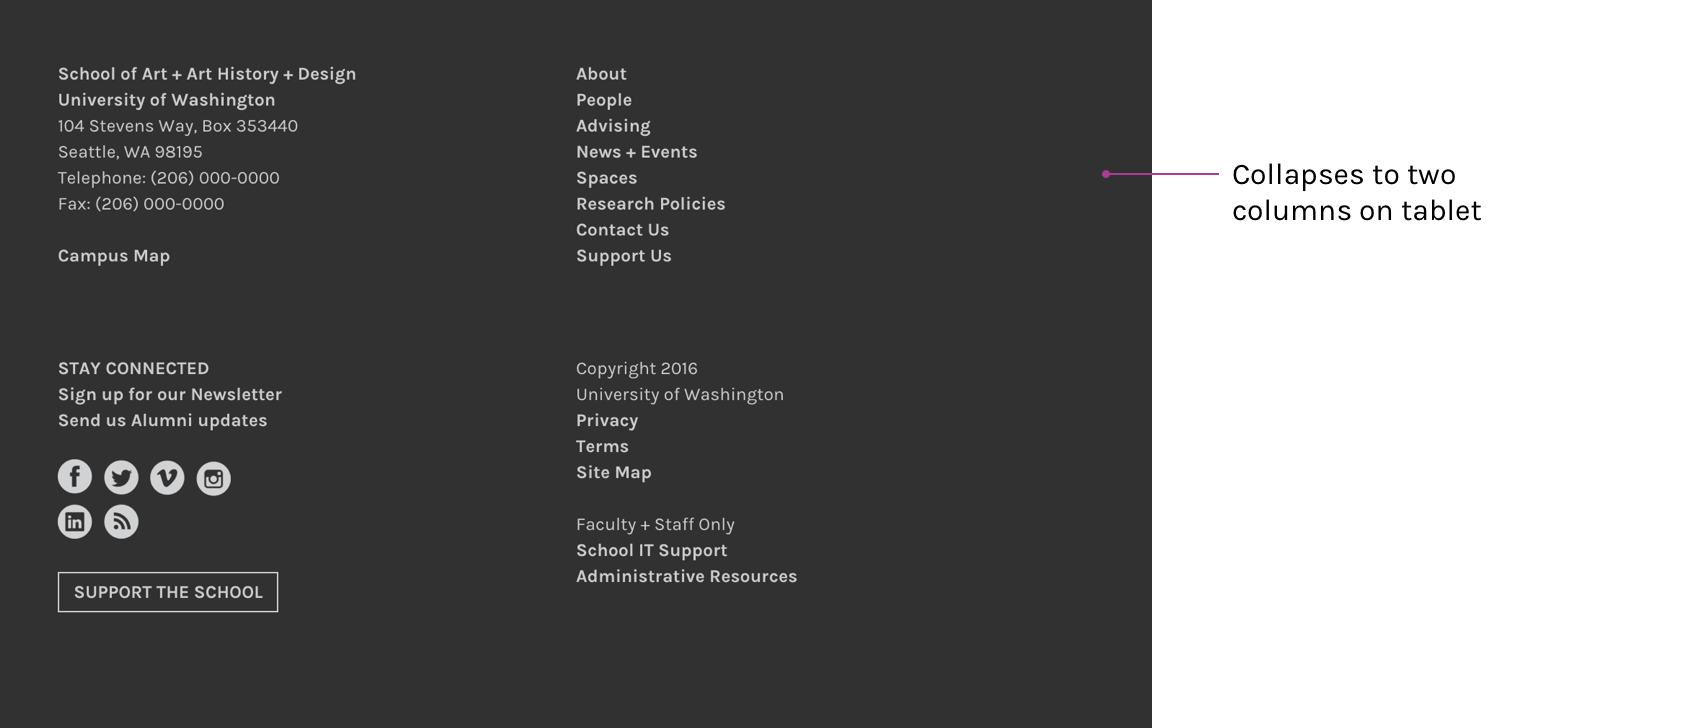
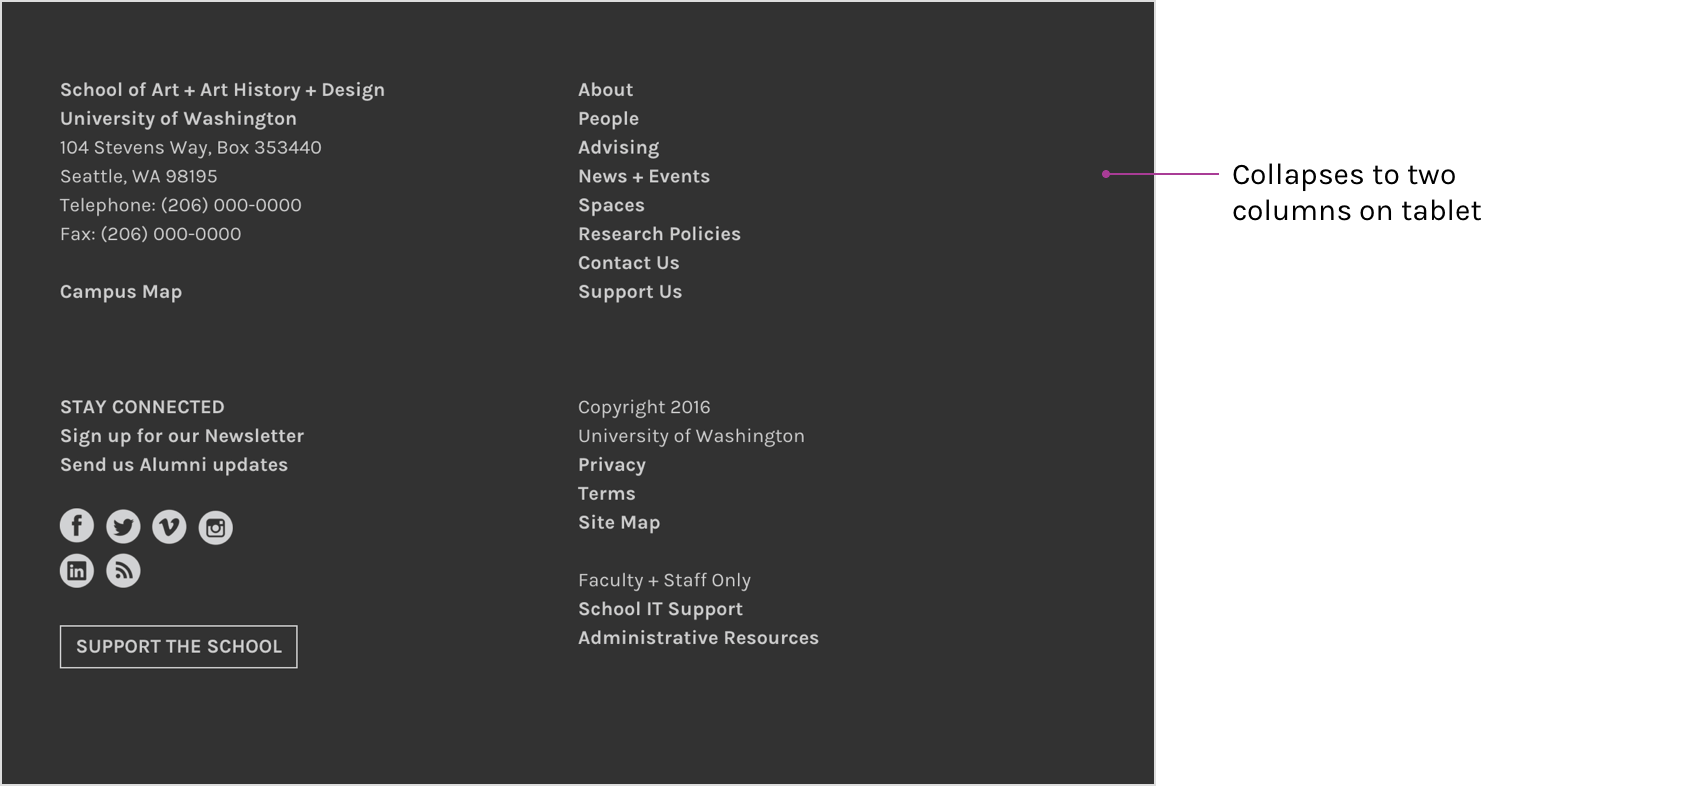
Updated as per 1/29 meeting

diff --git a/index.html b/index.html
@@ -51,7 +51,7 @@
 		<article id='overview'>
 			<h1 id='overview'>Overview</h1>
 			<p>This is the style guide for the forthcoming School of Art + Art History + Design website. It provides tools, assets and guidance to streamline the workflow between designers and developers, and maintain a consistency in style across the entire site.</p>
-			<p>The style guide was last updated on January 26, 2016. For more information, contact Rishi Agarwal (<a href='mailto:rishialexander@gmail.com'>rishialexander@gmail.com</a>).</p>
+			<p>The style guide was last updated on January 31, 2016. For more information, contact Rishi Agarwal (<a href='mailto:rishialexander@gmail.com'>rishialexander@gmail.com</a>).</p>
 
 			<h2>Interactive prototypes</h2>
 			<p>The prototypes below are designed to demonstrate the interactive and responsive aspects of the website. They are also helpful for understanding how all of the parts fit together.</p>
@@ -131,6 +131,7 @@
 		<article id='typography'>
 			<h1>Typography</h1>
 			<p>The Art + Art History + Design website is set entirely in Karla. To maximize readability, the design uses widths and font sizes that aim for 8-12 words per line when possible.</p>
+			<p>The website uses relative units (rem) based on a baseline size of 16px.</p>
 			<h2>Semantic hierarchy</h2>
 			<table>
 				<tr>
@@ -362,7 +363,7 @@
 			<div id='header'>
 				<h2>Header</h2>
 				<h3>Desktop</h3>
-				<p>The header connects the Art + Art History + Design departments with the greater University of Washington. The gray links go to various external pages, and the logo goes to the University of Washington homepage.</p>
+				<p>The header connects the Art + Art History + Design departments with the greater University of Washington. The gray links go to various external pages, and the logo goes to the University of Washington homepage. The quick links are base-aligned with "University of Washington". The login links are top-aligned with the "W".</p>
 				<div class='code-box'>
 					<ul class='no-dots code'><li>800px width and greater</li></ul>
 					<div class='code code-title'>Header</div>
@@ -395,7 +396,7 @@
 				</div>
 				<img src='images/header-desktop.png' />
 				<h3>Tablet</h3>
-				<p>On tablet devices the gray shortcut links are removed and replaced with a hamburger button &#9776; that opens the navigation dropdown menu.</p>
+				<p>On tablet devices the gray shortcut links are removed and replaced with a hamburger button &#9776; that opens the navigation dropdown menu. The login links are vertically centered.</p>
 				<div class='code-box'>
 					<ul class='no-dots code'><li>600px up to 800px width</li></ul>
 					<div class='code code-title'>Header</div>
@@ -409,18 +410,25 @@
 					<div class='code code-title'>Login links</div>
 					<ul class='no-dots code'>
 						<li>font-weight: normal;</li>
-						<li>right: 60px;</li>
+						<li>right: 108px;</li>
 						<li>top: 16px;</li>
+					</ul>
+					<div class='code code-title'>Search button</div>
+					<ul class='no-dots code'>
+						<li>height: 50px;</li>
+						<li>width: 50px;</li>
+						<li>right: 50px;
 					</ul>
 					<div class='code code-title'>Hamburger button</div>
 					<ul class='no-dots code'>
 						<li>height: 50px;</li>
 						<li>width: 50px;</li>
+						<li>right: 0px;</li>
 					</ul>
 				</div>
 				<img src='images/header-tablet.png' />
 				<h3>Mobile</h3>
-				<p>On mobile, a second header is added to fit the My Account / Logout buttons. The hamburger button is dropped down for visual symmetry.</p>
+				<p>On mobile, a second header is added to fit the My Account / Logout buttons. The hamburger button is dropped down for visual symmetry. The login links are vertically centered.</p>
 				<div class='code-box'>
 					<ul class='no-dots code'><li>Less than 600px width</li></ul>
 					<div class='code code-title'>Upper header</div>
@@ -445,6 +453,13 @@
 					<ul class='no-dots code'>
 						<li>height: 40px;</li>
 						<li>width: 44px;</li>
+						<li>right: 44px;</li>
+					</ul>
+					<div class='code code-title'>Hamburger button</div>
+					<ul class='no-dots code'>
+						<li>height: 40px;</li>
+						<li>width: 44px;</li>
+						<li>right: 0px;</li>
 					</ul>
 				</div>
 				<img src='images/header-mobile.png' />
@@ -549,7 +564,7 @@
 					<div class='code code-title'>Thumbnails</div>
 					<ul class='no-dots code'>
 						<li>width: 150px;</li>
-						<li>height: 125px;</li>
+						<li>height: 125px; (flexible)</li>
 						<li>float: right;</li>
 						<li>padding: 0 0 15px 15px;</li>
 					</ul>
@@ -560,7 +575,7 @@
 					<div class='code code-title'>Medium images</div>
 					<ul class='no-dots code'>
 						<li>max-width: 220px;</li>
-						<li>height: auto;</li>
+						<li>height: auto; (flexible)</li>
 						<li>float: left;</li>
 						<li>padding: 25px;</li>
 					</ul>
@@ -572,7 +587,7 @@
 					<div class='code code-title'>Large images</div>
 					<ul class='no-dots code'>
 						<li>width: 510px;</li>
-						<li>height: 350px;</li>
+						<li>height: 350px; (flexible)</li>
 					</ul>
 				</div>
 				<img src='images/images-large.png' />
@@ -581,8 +596,8 @@
 					<div class='code code-title'>Overlaid on image</div>
 					<ul class='no-dots code'>
 						<li>font-size: 0.63rem;</li>
-						<li>color: #333333; (dark gray)</li>
-						<li>background: rgba(255, 255, 255, 0.6); (60% white)</li>
+						<li>color: #000000; (black)</li>
+						<li>background: rgba(255, 255, 255, 0.8); (80% white)</li>
 					</ul>
 					<div class='code code-title'>Below image</div>
 					<ul class='no-dots code'>
@@ -604,7 +619,7 @@
 					<div class='code code-title'>Faculty images</div>
 					<ul class='no-dots code'>
 						<li>width: 200px;</li>
-						<li>height: 125px;</li>
+						<li>height: 125px; (strict)</li>
 					</ul>
 				</div>
 				<img src='images/images-facultyimages.png' />
@@ -624,7 +639,7 @@
 				</div>
 				<img src='images/images-facultyheadshots.png' />
 				<h3>Division Home Page Sidebar Images</h3>
-				<p>The sidebar images are only present on Division home pages. They should match the width of the sidebar. Ideally they will rotate between a set of four or five images per Division.</p>
+				<p>The sidebar images are only present on Division home pages. They should match the width of the sidebar. There is no padding between the images and the other page sections. Ideally they will rotate between a set of four or five images per Division.</p>
 				<a class='clean-link' href='downloads/references/SoAAHD-3.jpg'><img src='images/images-sidebar.png' /></a>
 				<hr>
 			</div>
@@ -705,6 +720,7 @@
 						<li>width: 370px;</li>
 						<li>padding: 24px 40px;</li>
 						<li>margin-left: 8px;</li>
+						<li>margin-bottom: 8px;</li>
 					</ul>
 					<div class='code code-title'>Navigation section</div>
 					<ul class='no-dots code'>
@@ -715,8 +731,12 @@
 					<ul class='no-dots code'>
 						<li>color: #4b2d83; (purple)</li>
 						<li>font-size: 0.875rem;</li>
-						<li>line-height: 1.6;</li>
+						<li>line-height: 1.4;</li>
 						<li>margin-bottom: 12px;</li>
+					</ul>
+					<div class='code code-title'>Navigation link (general)</div>
+					<ul class='no-dots code'>
+						<li>padding-bottom: 4px;</li>
 					</ul>
 					<div class='code code-title'>Navigation links (first level)</div>
 					<ul class='no-dots code'>
@@ -725,6 +745,7 @@
 					<div class='code code-title'>Navigation links (second level)</div>
 					<ul class='no-dots code'>
 						<li>font-weight: normal;</li>
+						<li>margin: 6px 0 0 22px;</li>
 					</ul>
 					<div class='code code-title'>Navigation links (current page)</div>
 					<ul class='no-dots code'>
@@ -756,7 +777,11 @@
 					</ul>
 					<div class='code code-title'>Navigation links</div>
 					<ul class='no-dots code'>
-						<li>line-height: 2;</li>
+						<li>line-height: 1.5;</li>
+					</ul>
+					<div class='code code-title'>Navigation link (general)</div>
+					<ul class='no-dots code'>
+						<li>padding-bottom: 7px;</li>
 					</ul>
 				</div>
 				<img src='images/sidebar-tablet.png' />
@@ -773,6 +798,14 @@
 					<ul class='no-dots code'>
 						<li>background: rgba(255, 255, 255, 1); (white)</li>
 						<li>border-top: none;</li>
+					</ul>
+					<div class='code code-title'>Navigation links</div>
+					<ul class='no-dots code'>
+						<li>line-height: 1.5;</li>
+					</ul>
+					<div class='code code-title'>Navigation link (general)</div>
+					<ul class='no-dots code'>
+						<li>padding-bottom: 7px;</li>
 					</ul>					
 				</div>
 				<img src='images/sidebar-mobile.png' />
@@ -929,7 +962,11 @@
 						<li>font-weight: bold;</li>
 						<li>letter-spacing: 1px;</li>
 						<li>padding: 12px 16px;</li>
-					</ul>					
+					</ul>
+					<div class='code code-title'>Tab text (inactive)</div>
+					<ul class='no-dots code'>
+						<li>color: #666666; (medium gray)</li>
+					</ul>			
 				</div>
 				<img src='images/tabs-desktop.png' />
 
@@ -988,8 +1025,8 @@
 					<ul class='no-dots code'><li>800px width and greater</li></ul>
 					<div class='code code-title'>Footer</div>
 					<ul class='no-dots code'>
-						<li>font-size: 0.78rem;</li>
-						<li>line-height: 1.13rem;</li>
+						<li>font-size: 0.85rem;</li>
+						<li>line-height: 1.25rem;</li>
 						<li>color: #cccccc; (light gray)</li>
 						<li>padding: 40px 85px;</li>
 					</ul>
@@ -1088,7 +1125,6 @@
 						<li>Some pages may have multiple pictures in the background. Before adding them to the site, they must be composited into a single image.</li>
 					</ul>
 				</li>
-				<li>All of the content is aligned to the same left margin regardless of screen size. This includes the header, the logo, the article, and the footer.</li>
 			</ul>
 			<h3>Desktop</h3>
 			<p>This is the structure for a typical page featuring an article.</p>
